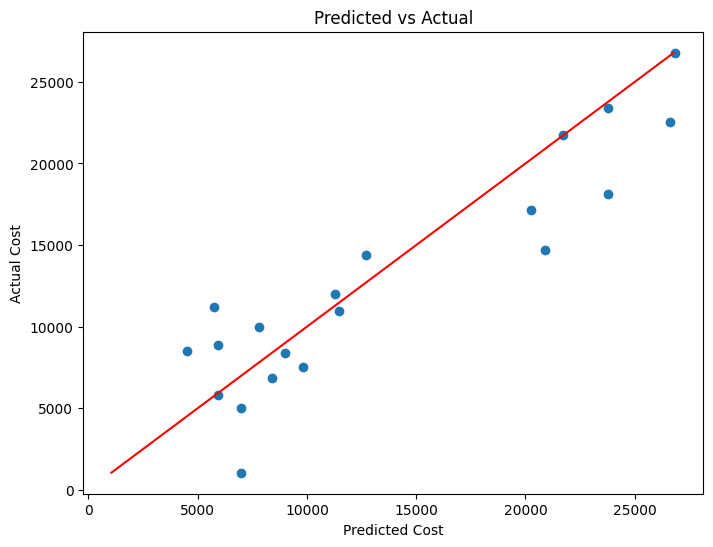
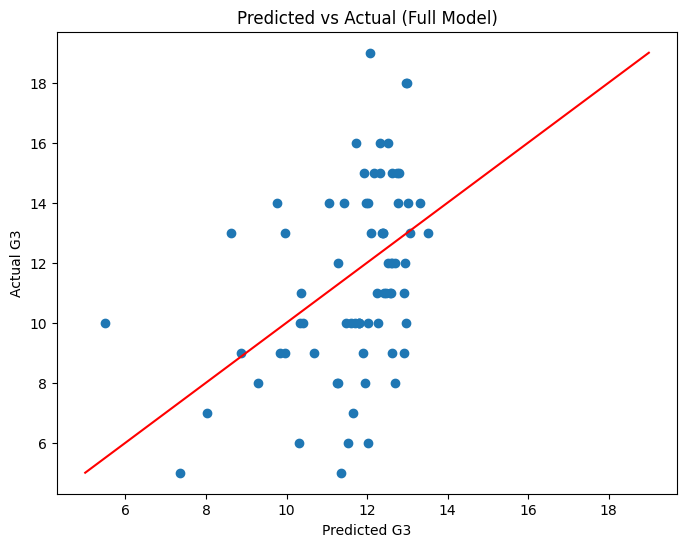
Address week 2 reviewer feedback

diff --git a/assignments_02/project_02.py b/assignments_02/project_02.py
@@ -156,7 +156,7 @@ plt.plot(
 plt.title("Predicted vs Actual (Full Model)")
 plt.xlabel("Predicted G3")
 plt.ylabel("Actual G3")
-plt.savefig("assignments_02/outputs/predicted_vs_actual_full_model.png", bbox_inches="tight")
+plt.savefig("assignments_02/outputs/predicted_vs_actual.png", bbox_inches="tight")
 plt.close()
 
 # A point above the diagonal means the actual grade is higher than predicted.
@@ -170,11 +170,42 @@ sorted_coefs = sorted(zip(feature_cols, model.coef_), key=lambda x: x[1])
 print("Most negative coefficients:", sorted_coefs[:2])
 print("Most positive coefficients:", sorted_coefs[-2:])
 
-# Plain-language summary:
-# RMSE tells the typical prediction error in grade points on a 0-20 scale.
-# R^2 tells how much variation in final grade the model explains.
-# For production, I would keep features with stronger, more interpretable signals and drop weak/noisy ones.
+# Coefficient interpretation:
+# The top two positive coefficients are internet and higher.
+# In this model, internet access has the strongest positive coefficient, about +0.834.
+# This means students with internet access are predicted to have higher final math grades,
+# assuming the other features stay the same.
+# The second strongest positive coefficient is higher, about +0.610.
+# This means students who plan to pursue higher education are also predicted to have
+# higher final math grades, assuming the other features stay the same.
+#
+# The bottom two negative coefficients are schoolsup and failures.
+# The most negative coefficient is schoolsup, about -2.062.
+# This means students receiving extra school support are predicted to have lower final
+# math grades, assuming the other features stay the same. This does not necessarily mean
+# school support causes lower grades; it may mean students receiving support were already struggling.
+# The second most negative coefficient is failures, about -1.145.
+# This means students with more past class failures are predicted to have lower final grades.
 
+# Plain-language summary:
+# After filtering out students with G3 equal to 0, the filtered dataset had 357 rows and 18 columns.
+# The test set had 72 rows, meaning the model was evaluated on 72 student records that it did not
+# see during training.
+#
+# The best full model had an RMSE of about 2.86.
+# Since final grades are on a 0-20 scale, this means the model's typical prediction error is
+# about 2.86 grade points. For example, if the model predicts a final grade of 12, the actual
+# grade might commonly be around 9.14 to 14.86.
+#
+# The best full model had a test R^2 score of about 0.154.
+# In plain English, this means the model explains about 15.4% of the variation in students'
+# final math grades. This is better than the baseline model, but it also shows that many
+# important factors are still missing from the model.
+#
+# One result that surprised me was that adding G1 increased the test R^2 to about 0.749.
+# This surprised me because the model became much stronger after adding only one feature.
+# It makes sense because G1 is the student's first-period grade, so it is already a strong
+# signal of how the student may perform on the final grade G3.
 print("\n=== NEGLECTED FEATURE: G1 ===")
 feature_cols_g1 = feature_cols + ["G1"]
 X_g1 = df_clean[feature_cols_g1].values
